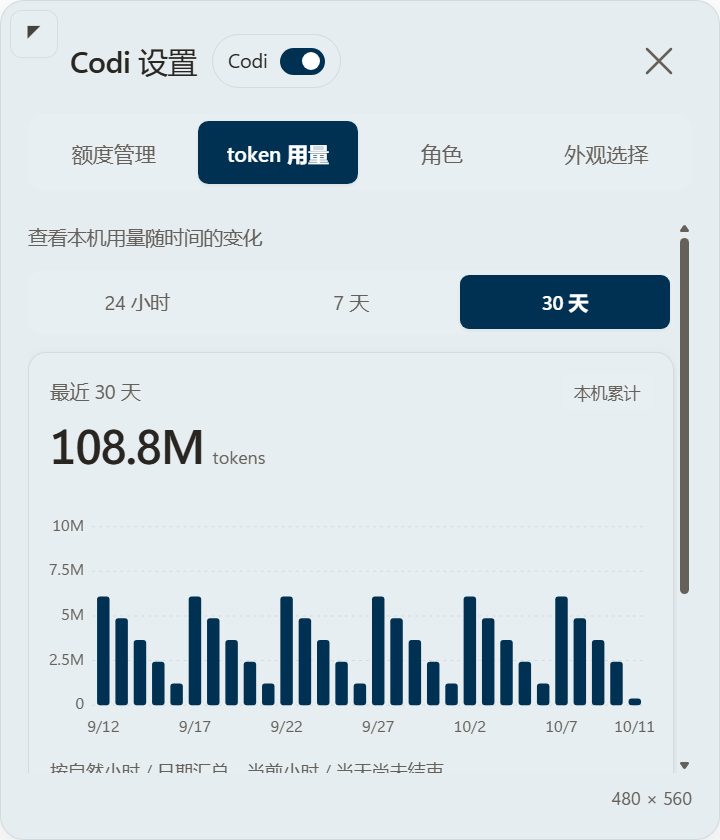
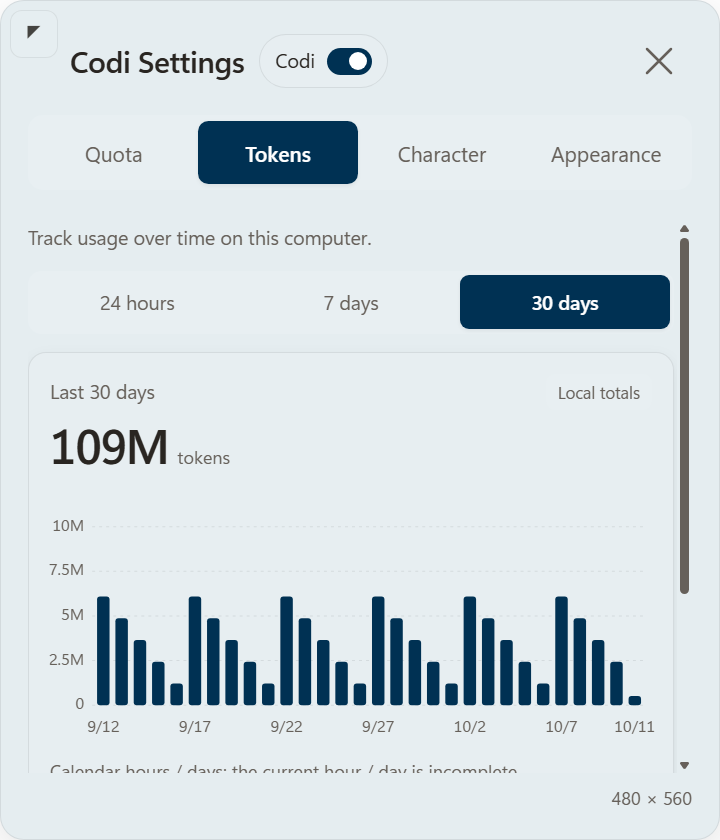
docs: use English UI captures in GitHub README

diff --git a/README.md b/README.md
@@ -34,7 +34,7 @@ See the bilingual [changelog](CHANGELOG.md) for details.
 
 ## Preview
 
-These are real Codi UI captures with synthetic quota/token values. The original demo chibi was **generated by GPT** for the README; it is an example, not an installed default character.
+These are English Codi UI captures with synthetic quota/token values. The original demo chibi was **generated by GPT** for the README; it is an example, not an installed default character.
 
 | Original transparent chibi | Companion |
 | --- | --- |

diff --git a/README.zh-CN.md b/README.zh-CN.md
@@ -34,7 +34,7 @@
 
 ## 效果预览
 
-以下截图来自真实 Codi 界面，额度和 token 用量为合成示例；原创 Q 版人物**由 GPT 生成**，仅供 README 演示，不会作为默认角色安装。
+以下是 Codi 英文界面的截图，额度和 token 用量为合成示例；原创 Q 版人物**由 GPT 生成**，仅供 README 演示，不会作为默认角色安装。
 
 | 原创透明 Q 版示例 | 桌面挂件 |
 | --- | --- |
